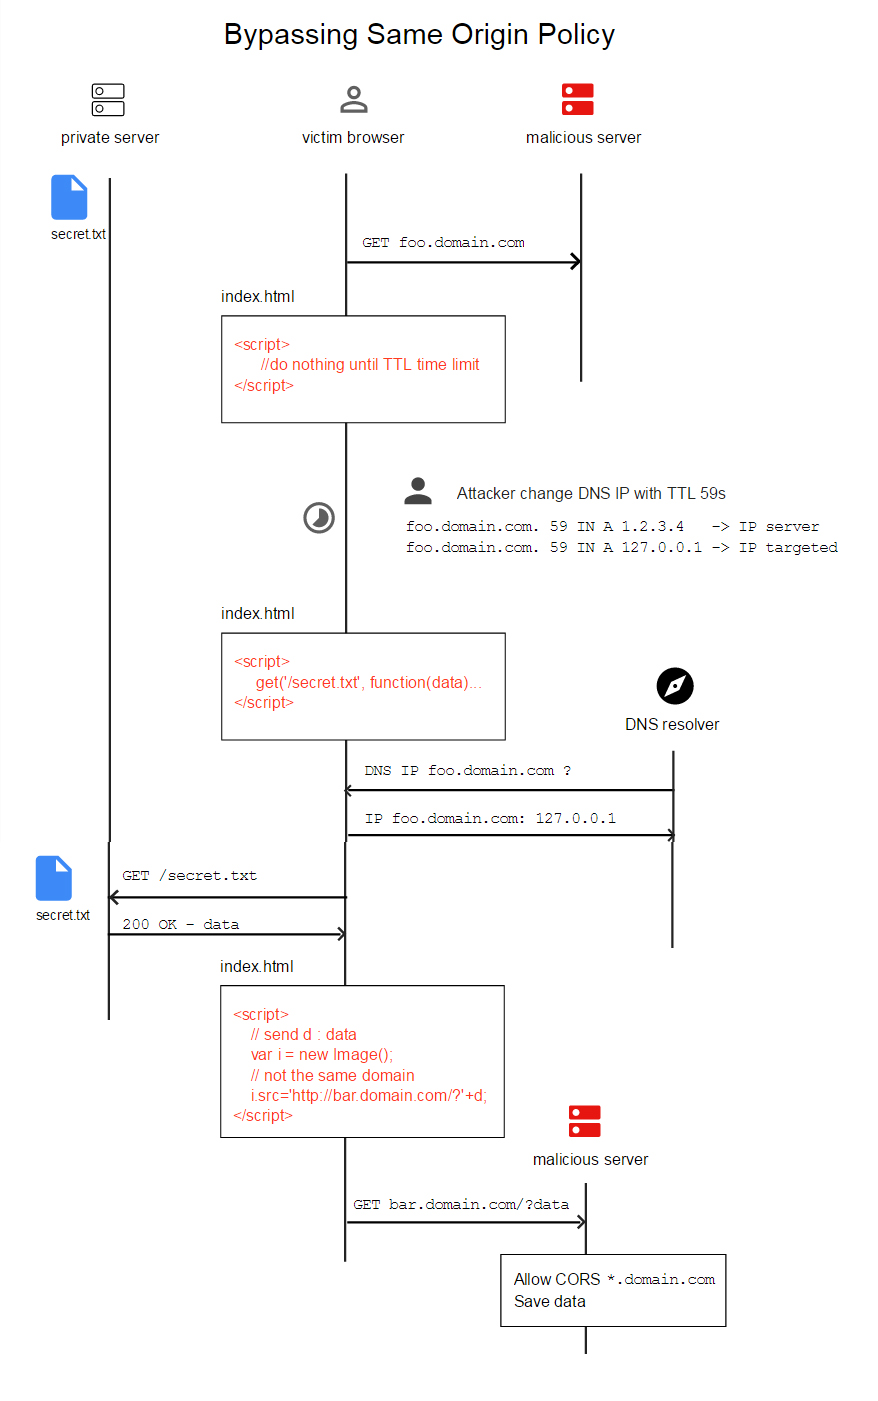
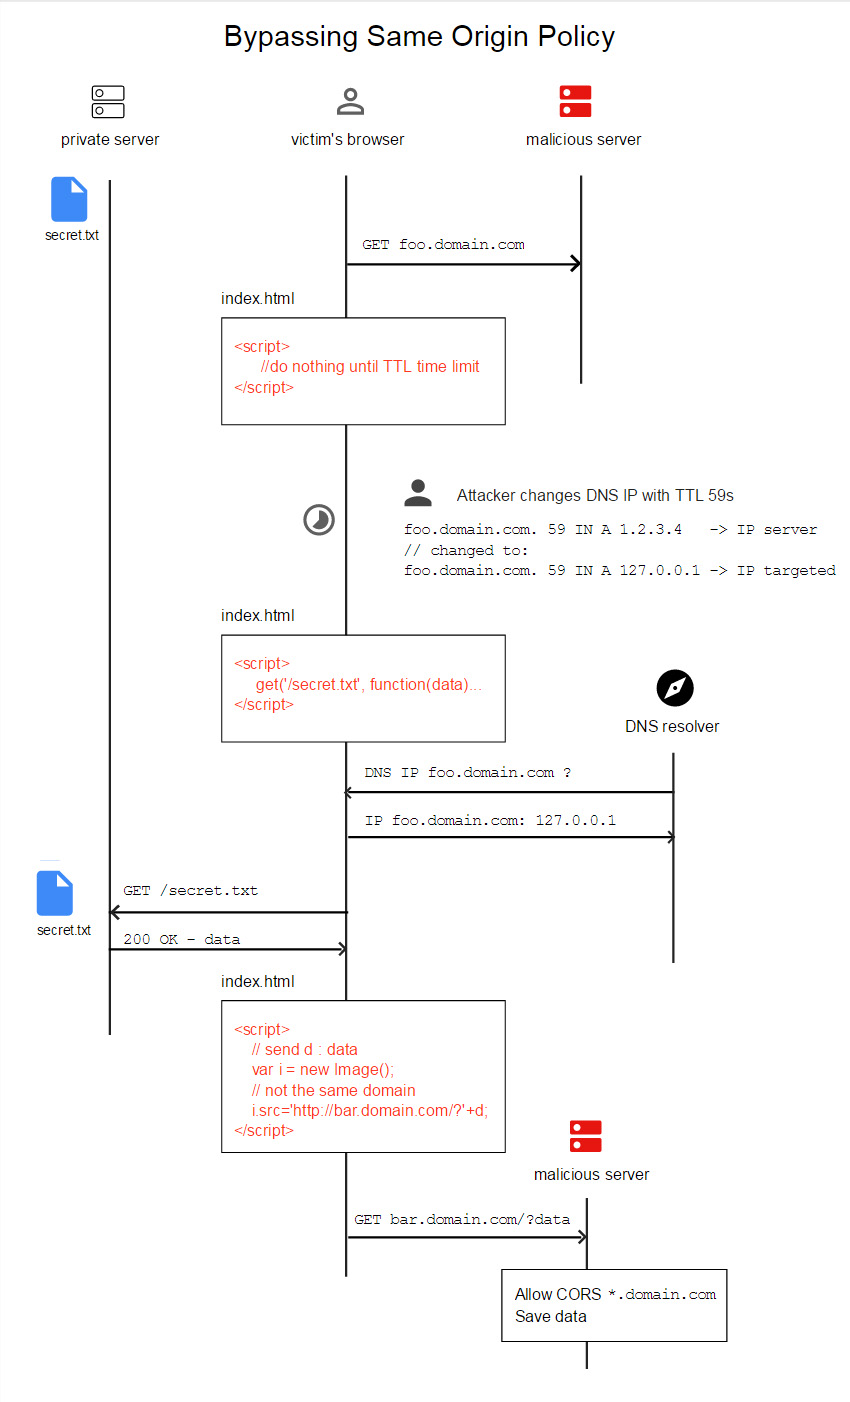
Update readme

diff --git a/bypass_sop.html b/bypass_sop.html
@@ -10,7 +10,7 @@
 
         <p>
             <b>Goal :</b> retrieve a file on a private server <a href="http://127.0.0.1/secret.txt">http://127.0.0.1/secret.txt</a> <br>
-            This normally should be impossible due to <a href="https://en.wikipedia.org/wiki/Same-origin_policy">Same Origin Policy</a> but we will use <a href="https://en.wikipedia.org/wiki/DNS_rebinding">DNS-rebinding</a> attack to bypass the SOP and retreive the file.</a> <br> <br>
+            This normally should be impossible due to <a href="https://en.wikipedia.org/wiki/Same-origin_policy">Same Origin Policy</a> but we will use <a href="https://en.wikipedia.org/wiki/DNS_rebinding">DNS-rebinding</a> attack to bypass the SOP and retrieve the file.</a> <br> <br>
             You can find more information by reading the readme.md on the github repository <a href="https://github.com/mpgn/BY-SOP/">BY-SOP</a>.
         </p>
 
@@ -37,8 +37,8 @@
         <h4>Contributor</h4>
         <p>Martial Puygrenier - martial.puygrenier[A]gmail[DOT]com - 2016 - Github <a href="https://github.com/mpgn/BY-SOP/">BY-SOP</a></p>
 
-        <h4>References</h4>
-        <p>Check the readme <a href="https://github.com/mpgn/B-SOP/readme.md">references</a></p>
+        <h4>Shema</h4>
+        <p>Full shema available <a href="https://github.com/mpgn/BY-SOP/blob/master/README.md">here</a></p>
 
         <script src="https://cdnjs.cloudflare.com/ajax/libs/jquery/2.2.1/jquery.min.js"></script>
         <script type="text/javascript">

diff --git a/README.md b/README.md
@@ -1,25 +1,27 @@
 # Bypass Same Origin Policy - BY-SOP
 
-Bypass Same Origin Policy with DNS-rebinding to retreive local server file.
+Bypass Same Origin Policy with DNS-rebinding to retrieve local server file.
 
 **Goal** : retrieve a file on a private server http://127.0.0.1/secret.txt 
-This normaly should by impossible due to [Same Origin Policy](https://en.wikipedia.org/wiki/Same-origin_policy) but we will use DNS-rebinding attack to bypass the SOP and retreive the file.
+This normaly should by impossible due to [Same Origin Policy](https://en.wikipedia.org/wiki/Same-origin_policy) but we will use [DNS-rebinding](https://en.wikipedia.org/wiki/DNS_rebinding) attack to bypass the SOP and retrieve the file.
+
+> This attack can be used to breach a private network by causing the victim's web browser to access machines at private IP addresses and returning the results to the attacker.
 
 ![BY-SOP](BY-SOP.jpg)
 
-### Victim
+### Victim:
 
-- visite the malicious page for at least ~2-3 minutes (playing flash game, fill a form etc)
+- visit the malicious page for at least ~2-3 minutes (playing flash game, fill a form etc)
 
-### Attacker
+### Attacker:
     
-* attacker setup a domain with a the lowest TTL (60 second, 120 for CloudFlare )
+* attacker setup a domain with the lowest TTL (60 second, 120 for CloudFlare )
 * one the victim visit the malicious page, he changes the dns IP of the domain with the local ip targeted
 
     - before `foo.domain.com. 59  IN  A   5.135.66.45`
     - after  `foo.domain.com. 59  IN  A   127.0.0.1`
 
-    Since the `TTL` is very short, the attacker will make another request to retreive the private file **AFTER** the `TTL` time is up (> 59), the request has to do an additional DNS request
+    Since the `TTL` is very short, the attacker will make another request to retrieve the private file **AFTER** the `TTL` time is up (> 59), the request has to do an additional DNS request
 
     ```javascript
     setTimeout(function SOP_bypass() {
@@ -30,7 +32,7 @@ This normaly should by impossible due to [Same Origin Policy](https://en.wikiped
     ```
 
     However, by changing the DNS record in the meantime, the domain will resolve to the victim page with the local IP.
-        There is no more Same Origin Policy and we can retreive the content of the file.
+        There is no more Same Origin Policy and we can retrieve the content of the file.
 
 * the content is send to another domain to save the data
     ```javascript
